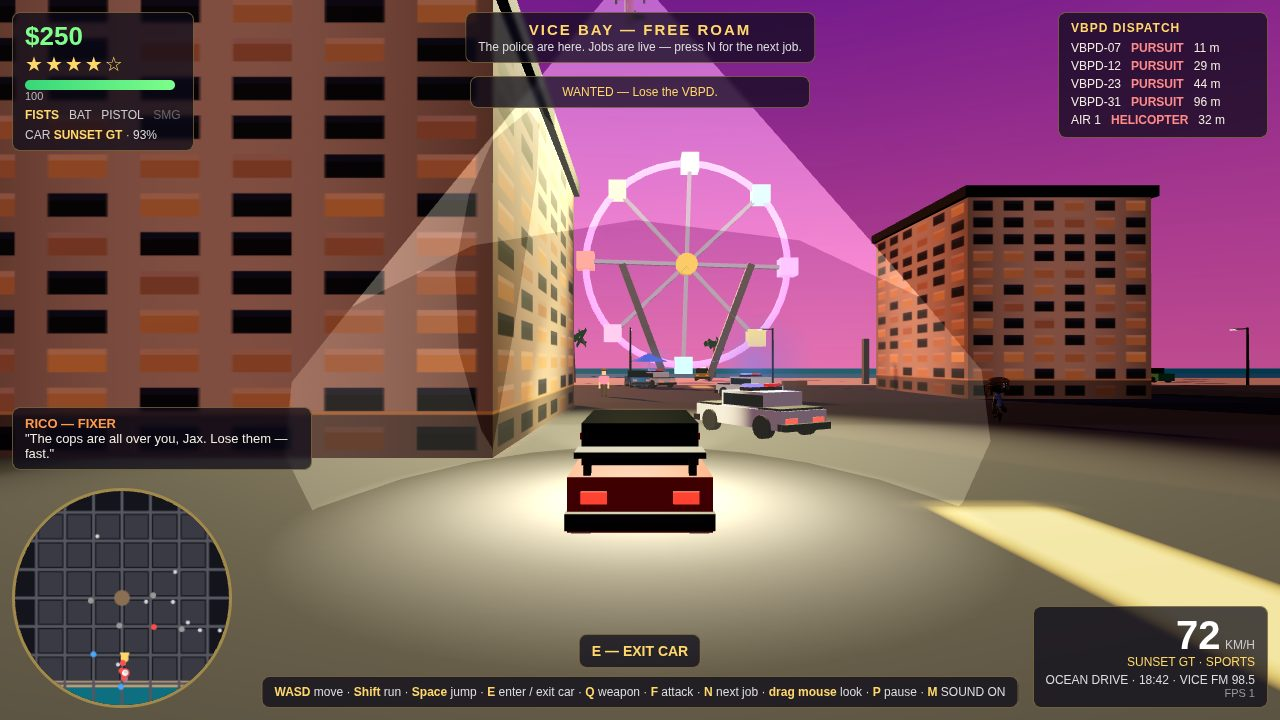
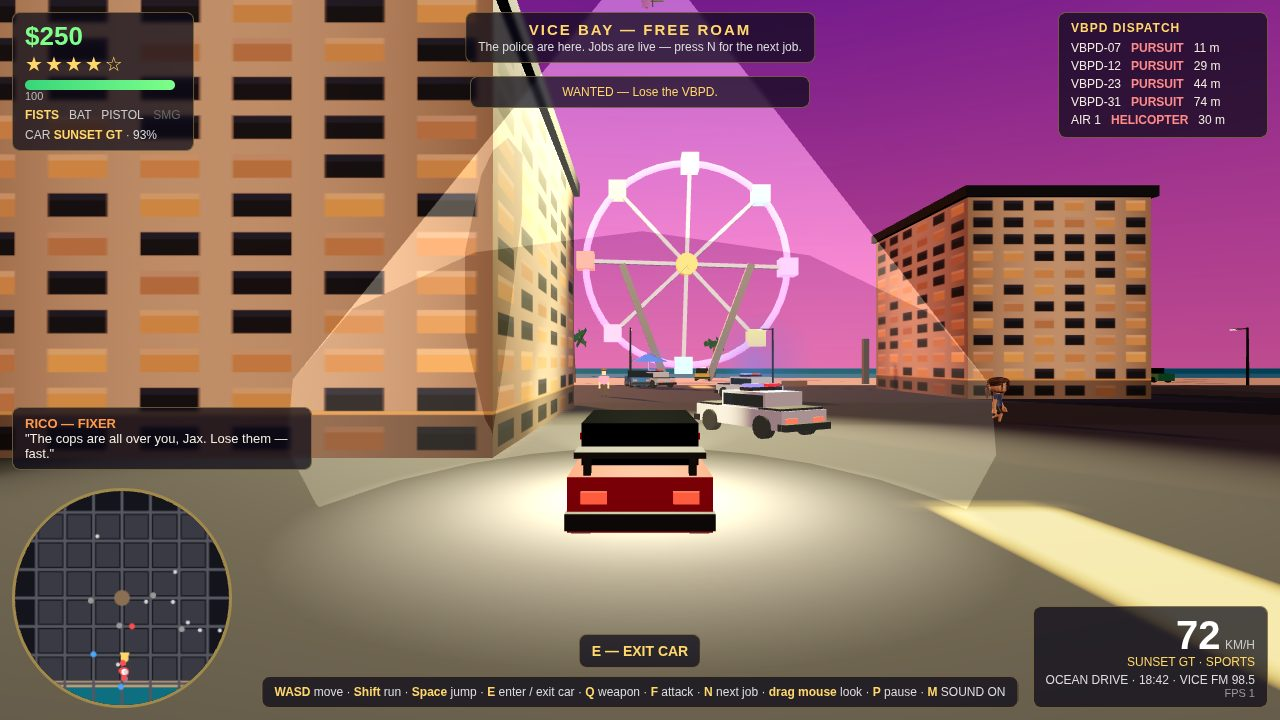
Visual Stage 2a: lighting — face visible at dusk + night (fill 1.6 at face height, skin recolor, ?night=1; regression 55/55, dossier 160,600/163,840)

diff --git a/game/src/main3d.js b/game/src/main3d.js
@@ -48,11 +48,13 @@ sun.shadow.camera.bottom = -260;
 sun.shadow.camera.far = 800;
 sun.shadow.bias = -0.0004;
 scene.add(sun);
-scene.add(new THREE.HemisphereLight(0x8a5cc8, 0x2a1a2e, 1.15));
-scene.add(new THREE.AmbientLight(0x604a6a, 0.8));
-// Camera-side fill light: follows the camera so the character never reads
-// as a dark silhouette from behind.
-const fill = new THREE.DirectionalLight(0xffe0b8, 0.55);
+const hemi = new THREE.HemisphereLight(0x8a5cc8, 0x2a1a2e, 1.35);
+scene.add(hemi);
+const amb = new THREE.AmbientLight(0x604a6a, 0.9);
+scene.add(amb);
+// Camera-side fill: follows the camera so the character never reads as a
+// dark silhouette. (Stage 2: fill 0.55 -> 1.6, face visible dusk/night.)
+const fill = new THREE.DirectionalLight(0xffe0b8, 1.6);
 scene.add(fill);
 scene.add(fill.target);
 
@@ -651,7 +653,9 @@ function updateCamera(dt) {
   camera.lookAt(cam.lookX, cam.lookY, cam.lookZ);
   applyShake();
   // Fill light follows the camera so the player is lit from the front.
-  fill.position.set(camera.position.x, camera.position.y + 4, camera.position.z);
+  // (Stage 2: at face height, not camera.y+4 — a steep top-down fill
+  // lit the hair but left the vertical face dark.)
+  fill.position.set(camera.position.x, player.y + 2.0, camera.position.z);
   fill.target.position.set(player.x, 1.2, player.z);
 }
 
@@ -660,6 +664,15 @@ const params = new URLSearchParams(window.location.search);
 const shotName = params.get('shot');
 const shotSeed = params.get('seed') || '1';
 window.__shotReady = false;
+
+// Night mode (?night=1): dims sun + sky; the fill keeps the character
+// visible. (Stage 2 verification.)
+if (params.get('night') === '1') {
+  sun.intensity = 0.25;
+  hemi.intensity = 0.5;
+  amb.intensity = 0.35;
+  clockMin = 21 * 60 + 30; // 21:30
+}
 
 // Snap the camera + look point to their staged targets immediately.
 // Without this the camera lerps from the origin (0,0,0) and after only

diff --git a/game/src/glbCharacter.js b/game/src/glbCharacter.js
@@ -33,6 +33,13 @@ export async function loadGLBCharacter(url, targetHeight = 1.8) {
     return null;
   }
   const scene = gltf.scene;
+  // Quaternius 'Skin' ships nearly black (baseColor 0.013), so the face
+  // reads as black at dusk no matter the lights. Brighten it to a warm
+  // skin tone. (CC0: recoloring at load is allowed; the file is untouched.)
+  scene.traverse((o) => {
+    const m = o.material;
+    if (o.isMesh && m && m.name === 'Skin') m.color.setHex(0xd9a066);
+  });
   // Measure in the bind pose, then scale + recenter so the feet sit at y=0
   // and the body is centred on x/z. (inner.position is in the outer
   // group's unscaled space, so it is multiplied by the scale factor.)

diff --git a/PROGRESS-3D.md b/PROGRESS-3D.md
@@ -494,3 +494,34 @@ The old Stage 2–4 modules were removed from the repo in this commit (they live
 
 ### Estimated completion time (visual prototype, actual)
 - Character prototype done 22 Nov ~20:20 WIB (model hunt + GLTFLoader + loader module + wiring + before/after shots + fixes + full regression 55/55 + dossier + kit check + this record + commit + push). **Do NOT continue to cars/city without Mot's evaluation of this prototype.** If Mot approves, the Stage 4 estimate for the remaining visual work stands: cars ~1.5–2 h, city ~2–3 h, beach + lighting ~1.5–2 h, testing + before/after ~1 h (total ~6–8 h for cars/city/beach/lighting, plus the character work already done). **Deadline for the final submission: 24 Nov 22:00 WIB** (gta6-01 closes). Do NOT seal or submit without Mot's approval.
+
+## Visual Stage 2 — Lighting (character face fix)
+
+**Context:** Mot approved continuing the visual upgrade after evaluating the character prototype (commit 0aff3f6). Stage 2 is LIGHTING + CARS, each with its own commit; city/beach come ONLY after Mot evaluates lighting+cars. This record covers LIGHTING only (cars follow in a separate commit). Branch `visual-prototype`. Stage 4 checkpoint (5d5aeaa) and character checkpoint (0aff3f6) untouched; backup untouched.
+
+### What was built (lighting)
+- **Fill light boosted + repositioned** (`game/src/main3d.js`): intensity 0.55 → 1.6, and moved from `camera.y + 4` (steep top-down, lit the hair but left the vertical face dark) to `player.y + 2.0` (face height, lights the face from the camera direction). Hemisphere 1.15 → 1.35, ambient 0.8 → 0.9 (slight general lift; dusk mood kept).
+- **Skin material brightened** (`game/src/glbCharacter.js`): the Quaternius 'Skin' material ships nearly black (baseColorFactor 0.0134), so the face read as black no matter the lights. The loader now recolors it to a warm skin tone (0xd9a066) at load. CC0 allows recoloring; the GLB file itself is untouched.
+- **Night mode for verification** (`?night=1`): dims sun 2.0 → 0.25, hemisphere 1.35 → 0.5, ambient 0.9 → 0.35, sets the clock to 21:30. Test-only query param; the fill keeps the character visible. Lets the face be verified at night as well as dusk.
+- **Root cause found (two parts):** (1) the fill light came from too high (camera.y+4 ≈ 7.3 m), so it lit the top of the head but not the vertical face; (2) the model's 'Skin' material is essentially black (0.0134), so it reflected almost no light at any angle. Both had to be fixed — neither alone was enough (fill 1.6 alone left the face black; the skin recolor alone would still leave a steep-light face dim).
+
+### Tests (headless Chromium 1255, SwiftShader, 1280×720)
+- **Full Stage 4 regression: 55/55 checks PASS on the re-run, 0 console errors, 0 page errors, 0 failed requests, 0 external requests (offline verified).** (First run after the lighting change was 54/55: the 'police closes in' check read 83 → 83 m in the 12 s window. A focused probe (`probe-police-close.py`) showed the chase works — 70 → 68 m at 12 s → 55 m at 30 s — so the 12 s window is just too short under SwiftShader for a reliable close measurement; the re-run passed 55/55. The lighting change touches no police code.)
+- **Lighting shots (viewed):** `screenshots-visual/char-light-dusk.jpg` (61,993 B, 18:42) and `char-light-night.jpg` (60,785 B, 21:30). In BOTH, the face is clearly visible — warm skin tone, readable eyes/features, not a black silhouette. The blue shirt, brown hair, arms and legs are all readable. Before (char-after.jpg): face nearly black. After: face clearly visible at dusk AND at night.
+- **FPS:** meter reports 1 (SwiftShader, honest — verifies correctness, NOT real-hardware FPS).
+- **Dossier screenshots re-taken by the Stage 4 test** (1-onfoot 72,237 B, 2-chase 122,202 B, 3-city 148,638 B, 4-beach 67,887 B — all ≤256 KiB); they now show the brighter lighting.
+
+### Dossier + kit check (after lighting)
+- Dossier valid: schema makefun/dossier/v1, 4 images, text **160,600 bytes** of the 163,840 cap (`/output/dossier.json`, 700,640 bytes total). Headroom **3,240 bytes** (lighting added 789 bytes). Repo 12 MB total — well under the 64 MB cap.
+- **Kit check: 4 passed, 0 failed, 17 skipped, 5 checked at submission.**
+- **The text cap is the binding constraint.** The cars stage must NET-SAVE bytes (replace procedural car geometry with GLB loading) or it cannot fit. Do NOT add code that pushes the dossier over the cap.
+
+### Errors / obstacles found (all fixed)
+1. **Fill 1.6 alone did not fix the face** — the face stayed black because the light came from too high (camera.y+4). Fixed by moving the fill to face height (player.y+2.0).
+2. **Face still black after the fill move** — the 'Skin' material itself is nearly black (baseColorFactor 0.0134). Found by parsing the GLB JSON chunk: 'Skin' [0.0134, 0.0134, 0.0134], 'Face' (the eyes) [1, 1, 0.94]. Fixed by recoloring 'Skin' to 0xd9a066 at load in glbCharacter.js.
+3. **Regression first run 54/55** ('police closes in' 83 → 83 m) — proven a SwiftShader timing flake by a focused 30 s probe (70 → 55 m); the re-run passed 55/55.
+
+### Remaining shortcomings / risks
+- The dossier text headroom is only 3,240 bytes. Cars must net-save bytes.
+- The `?night=1` param is test-only (not a gameplay day/night cycle); the scene is still permanently dusk-lit.
+- Only 1 of 10 NPCs is a GLB; the other 9 are still procedural boxes.
